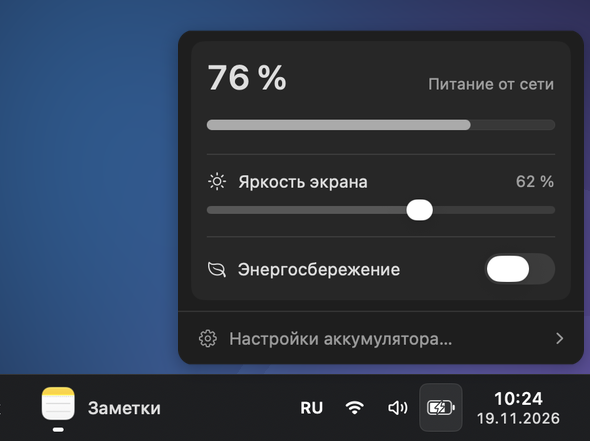
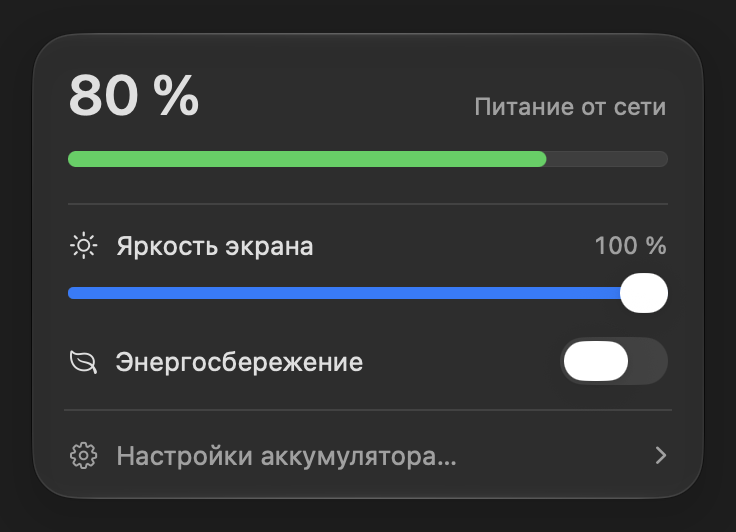
Use native Liquid Glass for the battery panel

diff --git a/Source/BatteryControls.swift b/Source/BatteryControls.swift
@@ -79,29 +79,31 @@ struct BatteryControls: View {
     var body: some View {
         VStack(alignment: .leading, spacing: 12) {
             if let status {
-                HStack(alignment: .firstTextBaseline) {
-                    Text(status.fraction, format: .percent.precision(.fractionLength(0)))
-                        .font(.system(size: 26, weight: .semibold)).monospacedDigit()
-                    Spacer()
-                    Text(status.onACPower ? "Питание от сети" : "От аккумулятора")
-                        .font(.callout).foregroundStyle(.secondary)
+                VStack(alignment: .leading, spacing: 6) {
+                    HStack(alignment: .firstTextBaseline) {
+                        Text(status.fraction, format: .percent.precision(.fractionLength(0)))
+                            .font(.system(size: 28, weight: .semibold)).monospacedDigit()
+                        Spacer()
+                        Text(status.onACPower ? "Питание от сети" : "От аккумулятора")
+                            .font(.callout).foregroundStyle(.secondary)
+                    }
+                    .accessibilityElement(children: .combine)
+                    ProgressView(value: status.fraction)
+                        .tint(energySaving ? .yellow : .green)
+                        .accessibilityHidden(true)
                 }
-                ProgressView(value: status.fraction).tint(energySaving ? .yellow : .green)
                 Divider()
                 BrightnessControl(display: display)
-                Divider()
-                HStack {
+                Toggle(isOn: Binding(
+                    get: { energySaving },
+                    set: { control.set($0, onAC: status.onACPower) }
+                )) {
                     Label("Энергосбережение", systemImage: "leaf")
-                    Spacer()
-                    Toggle("Энергосбережение", isOn: Binding(
-                        get: { energySaving },
-                        set: { control.set($0, onAC: status.onACPower) }
-                    ))
-                    .labelsHidden().accessibilityLabel("Энергосбережение")
-                    .toggleStyle(.switch).tint(.green)
-                    .environment(\.controlActiveState, .active)
-                    .disabled(control.changing)
+                        .frame(maxWidth: .infinity, alignment: .leading)
                 }
+                .toggleStyle(.switch).tint(.green)
+                .environment(\.controlActiveState, .active)
+                .disabled(control.changing)
                 if let message = control.message {
                     Text(message).font(.caption).foregroundStyle(.secondary)
                 }
@@ -109,6 +111,9 @@ struct BatteryControls: View {
                 Text("Нет данных об аккумуляторе").foregroundStyle(.secondary)
             }
         }
+        .padding(.horizontal, 8)
+        .padding(.top, 6)
+        .padding(.bottom, 4)
         .onReceive(Timer.publish(every: 1, on: .main, in: .common).autoconnect()) { _ in refresh() }
         .onReceive(NotificationCenter.default.publisher(for: .NSProcessInfoPowerStateDidChange)) { _ in refresh() }
     }

diff --git a/Source/TrayControls.swift b/Source/TrayControls.swift
@@ -6,6 +6,9 @@ import IOBluetooth
 
 enum TrayPage: String {
     case wifi = "Wi-Fi", sound = "Звук", bluetooth = "Bluetooth", airDrop = "AirDrop", battery = "Аккумулятор"
+    var usesGlassPanel: Bool { self == .sound || self == .battery }
+    var cornerRadius: CGFloat { usesGlassPanel ? 22 : 13 }
+
     var settingsTitle: String {
         switch self {
         case .airDrop: return "Настройки AirDrop…"
@@ -432,12 +435,11 @@ struct TrayControls: View {
     private var page: TrayPage { initialPage == .wifi ? wirelessPage : initialPage }
     let openAirDrop: () -> Void
     let openSettings: (String)->Void
-    static let soundCornerRadius: CGFloat = 22
 
     @ViewBuilder
     private var surface: some View {
-        if initialPage == .sound {
-            let shape = RoundedRectangle(cornerRadius: Self.soundCornerRadius, style: .continuous)
+        if initialPage.usesGlassPanel {
+            let shape = RoundedRectangle(cornerRadius: initialPage.cornerRadius, style: .continuous)
             if #available(macOS 26.0, *) {
                 Color.clear.glassEffect(.regular, in: shape)
             } else {
@@ -449,7 +451,7 @@ struct TrayControls: View {
     }
 
     var body: some View {
-        let insetSection = page != .wifi && page != .sound
+        let insetSection = page != .wifi && !page.usesGlassPanel
         VStack(alignment: .leading, spacing: 0) {
             if initialPage == .wifi {
                 HStack(spacing: 4) {
@@ -494,7 +496,7 @@ struct TrayControls: View {
                 .background(Color.primary.opacity(insetSection ? 0.045 : 0), in: RoundedRectangle(cornerRadius: 10))
                 .padding(.horizontal, 10).padding(.vertical, 8)
 
-            Divider().padding(.horizontal, page == .sound ? 16 : 0)
+            Divider().padding(.horizontal, page.usesGlassPanel ? 16 : 0)
             Button { openSettings(page.settings) } label: {
                 HStack(spacing: 8) {
                     Image(systemName: "gearshape")
@@ -502,9 +504,9 @@ struct TrayControls: View {
                     Spacer()
                     Image(systemName: "chevron.right").font(.caption.weight(.semibold))
                 }.foregroundStyle(.secondary)
-            }.buttonStyle(MenuRowStyle()).padding(.horizontal, page == .sound ? 10 : 7).padding(.vertical, page == .sound ? 6 : 4)
+            }.buttonStyle(MenuRowStyle()).padding(.horizontal, page.usesGlassPanel ? 10 : 7).padding(.vertical, page.usesGlassPanel ? 6 : 4)
         }
-        .frame(width: initialPage == .wifi || initialPage == .sound ? 336 : 310)
+        .frame(width: initialPage == .wifi || initialPage.usesGlassPanel ? 336 : 310)
         .fixedSize(horizontal: false, vertical: true)
         .background { surface }
     }

diff --git a/Source/Tray.swift b/Source/Tray.swift
@@ -472,8 +472,8 @@ final class Tray: NSObject, NSPopoverDelegate {
                 presented?.fitContent(to:size)
             })
         let panel = SlidingShelfPanel(title:page.rawValue,card:card,above:anchor,in:shelf,screen:screen,
-                                      cornerRadius: page == .sound ? TrayControls.soundCornerRadius : 13)
-        if page == .sound { panel.appearance = nil }
+                                      cornerRadius: page.cornerRadius)
+        if page.usesGlassPanel { panel.appearance = nil }
         presented = panel
         slidingPanel = panel
         panel.showPanel()

diff --git a/Source/DisplayBrightness.swift b/Source/DisplayBrightness.swift
@@ -47,6 +47,7 @@ struct BrightnessControl: View {
                 failed = !DisplayBrightness.set(value, on: display)
                 level = failed ? DisplayBrightness.level(on: display) : value
             }), in: 0...1, onEditingChanged: { editing = $0 })
+                .controlSize(.large)
                 .disabled(level == nil)
                 .accessibilityLabel("Яркость экрана")
             if level == nil || failed {

diff --git a/README.md b/README.md
@@ -107,9 +107,9 @@
 
 ### Меню аккумулятора
 
-Клик по батарее открывает окно над панелью. Вверху видны заряд и источник питания, ниже находятся ползунок яркости и переключатель энергосбережения. На самой панели уровень заряда виден по заполнению значка, а при питании от сети внутри появляется молния.
+Клик по батарее открывает окно над панелью. В macOS 26 и новее у него та же поверхность Liquid Glass, что и у окна звука. Вверху видны заряд и источник питания, ниже находятся ползунок яркости и переключатель энергосбережения. На самой панели уровень заряда виден по заполнению значка, а при питании от сети внутри появляется молния.
 
-<img src="docs/media/battery.png" width="460" alt="Окно аккумулятора над значком батареи. Заряд 76 %, питание от сети, яркость экрана 62 %, ниже — переключатель энергосбережения">
+<img src="docs/media/battery.png" width="368" alt="Окно аккумулятора в тёмном оформлении Liquid Glass. Заряд 80 %, питание от сети, яркость 100 %, энергосбережение выключено">
 
 ### Верхняя строка меню macOS
 
